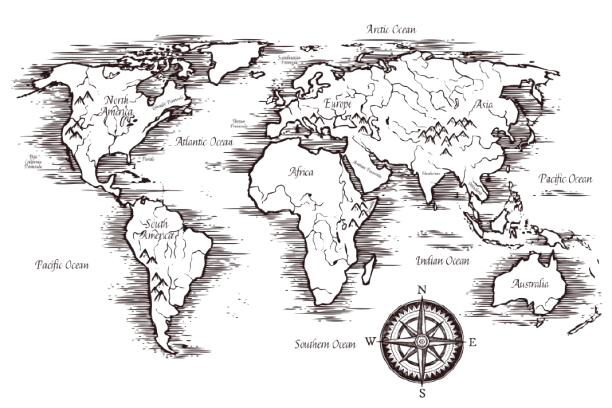
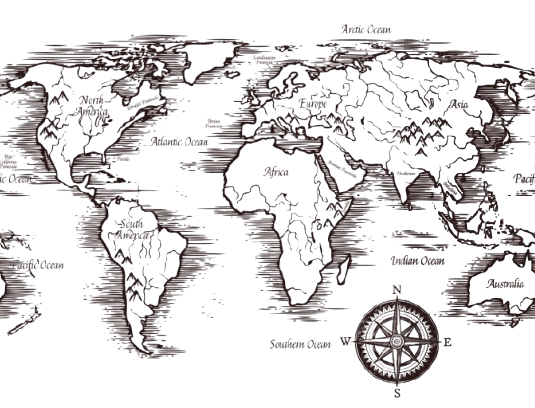
fix: autocalc background percent according to longitude

diff --git a/src/app/layout.tsx b/src/app/layout.tsx
@@ -24,7 +24,7 @@ async function changeLocaleAction(locale: Locale) {
 }
 
 export default async function RootLayout({ children }: Readonly<{ children: React.ReactNode }>) {
-  const { x } = await getBackgroundPositionByIp();
+  const x = await getBackgroundPositionByIp();
   return (
     <html lang="en" suppressHydrationWarning>
       <body
@@ -36,7 +36,11 @@ export default async function RootLayout({ children }: Readonly<{ children: Reac
               <NavBar changeLocaleAction={changeLocaleAction} />
               <main
                 className="flex py-10 px-6 flex-col items-center justify-between bg-blend-lighten bg-background bg-[url(@/../public/sketch-world-map.png)] bg-cover dark:bg-foreground"
-                style={{ backgroundPositionX: x, minHeight: "calc(100dvh - 40px)" }}
+                style={{
+                  // animation: "animatedBackground 500s linear infinite normal",
+                  backgroundPositionX: x,
+                  minHeight: "calc(100dvh - 40px)",
+                }}
               >
                 {children}
               </main>
@@ -49,25 +53,53 @@ export default async function RootLayout({ children }: Readonly<{ children: Reac
 }
 
 async function getBackgroundPositionByIp() {
-  const FALLBACK_LAT = 40;
-  const FALLBACK_LONG = 0;
+  const FALLBACK_LONG = 8;
   try {
     const locationResp = await fetch("https://geolocation-db.com/json/");
-    const { latitude, longitude } = await locationResp.json();
-    return convertLatLongToPercent({ lat: latitude, long: longitude });
+    const { longitude } = await locationResp.json();
+    return convertLongToPercent({ long: longitude });
   } catch (e) {
     console.log("Unable to fetch location", e);
-    return convertLatLongToPercent({ lat: FALLBACK_LAT, long: FALLBACK_LONG });
+    return convertLongToPercent({ long: FALLBACK_LONG });
   }
 }
 
-function convertLatLongToPercent({ lat, long }: { lat: number; long: number }) {
-  const HEMISPHERE_LONGITUDE_DEGREES = 180;
-  const HEMISPHERE_LATITUDE_DEGREES = 90;
-  const decimalY = (long / HEMISPHERE_LONGITUDE_DEGREES) * 100;
-  const y = `${Math.floor(decimalY)}%`;
-  const decimalX = (lat / HEMISPHERE_LATITUDE_DEGREES) * 100;
-  const x = `${Math.floor(decimalX)}%`;
+function convertLongToPercent({ long }: { long: number }) {
+  const { initialLong, initialPercent, percentByDegree } = getCalcParametersByLong(long);
+  if (!initialLong) return 42;
+  const complementX = (initialLong - long) * percentByDegree;
+  console.log({ initialLong, initialPercent, long, percentByDegree, x: initialPercent - Math.floor(complementX) });
+  return `${initialPercent - Math.floor(complementX)}%`;
+}
 
-  return { x, y };
+function getCalcParametersByLong(long: number) {
+  if (long <= 140 && long >= -120) {
+    return {
+      initialLong: 140,
+      initialPercent: 113,
+      percentByDegree: 0.48,
+    };
+  }
+
+  if (long <= 180 && long > 140) {
+    return {
+      initialLong: 180,
+      initialPercent: -24,
+      percentByDegree: 0.2,
+    };
+  }
+
+  if (long < -120 && long >= -180) {
+    return {
+      initialLong: -120,
+      initialPercent: -9,
+      percentByDegree: 0.2,
+    };
+  }
+
+  return {
+    initialLong: null,
+    initialPercent: null,
+    percentByDegree: null,
+  };
 }
